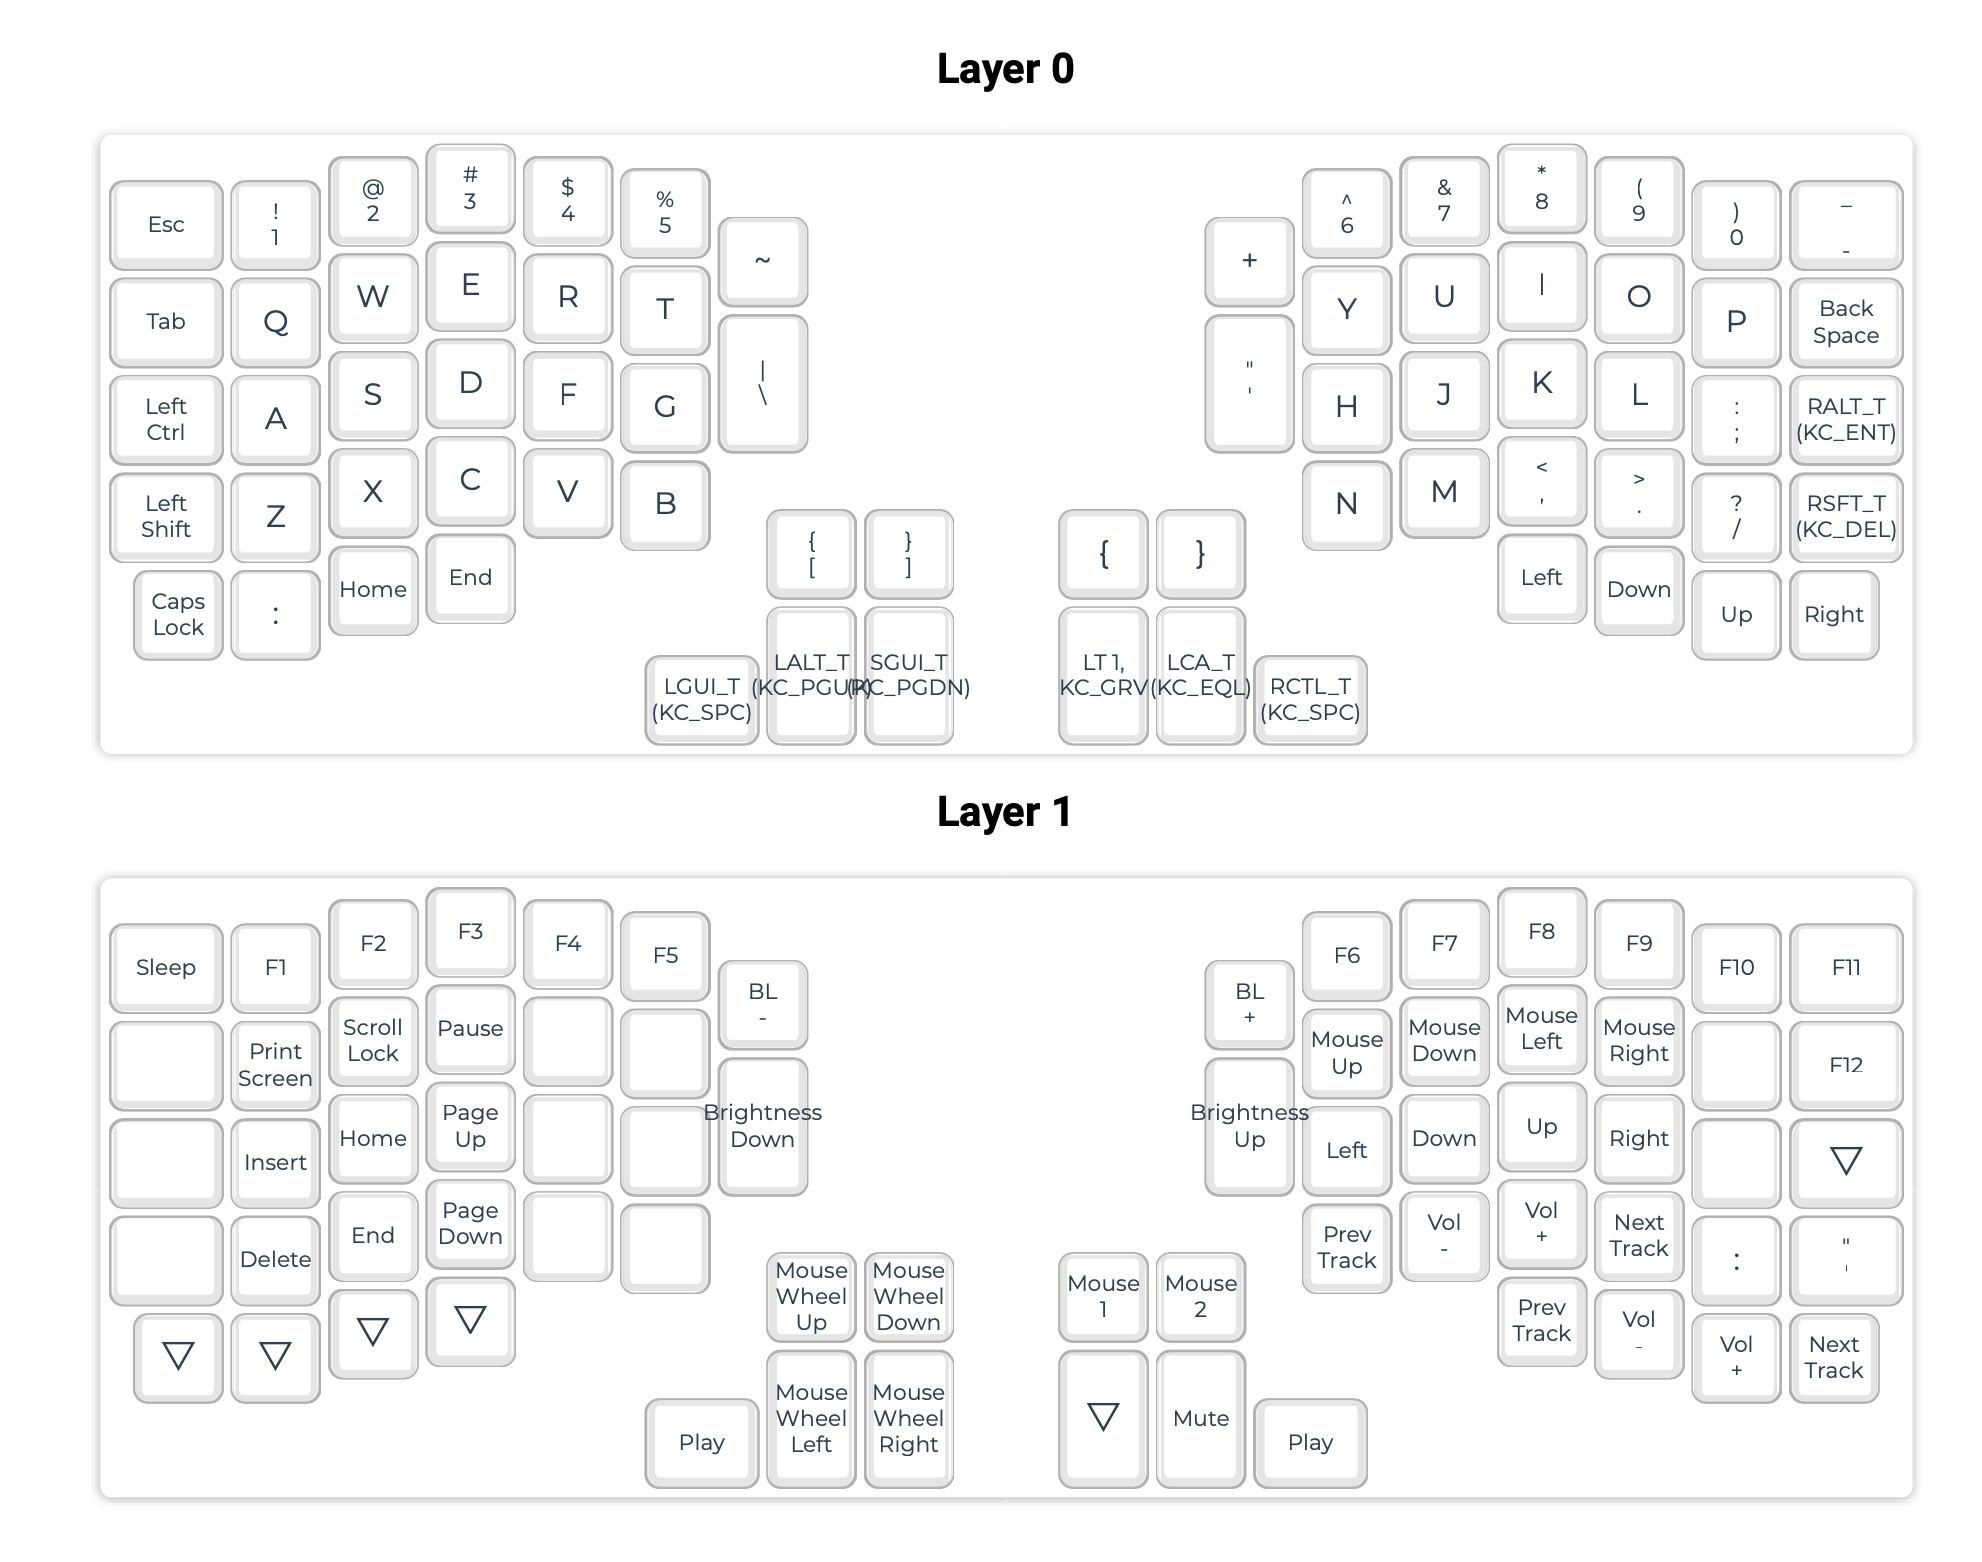
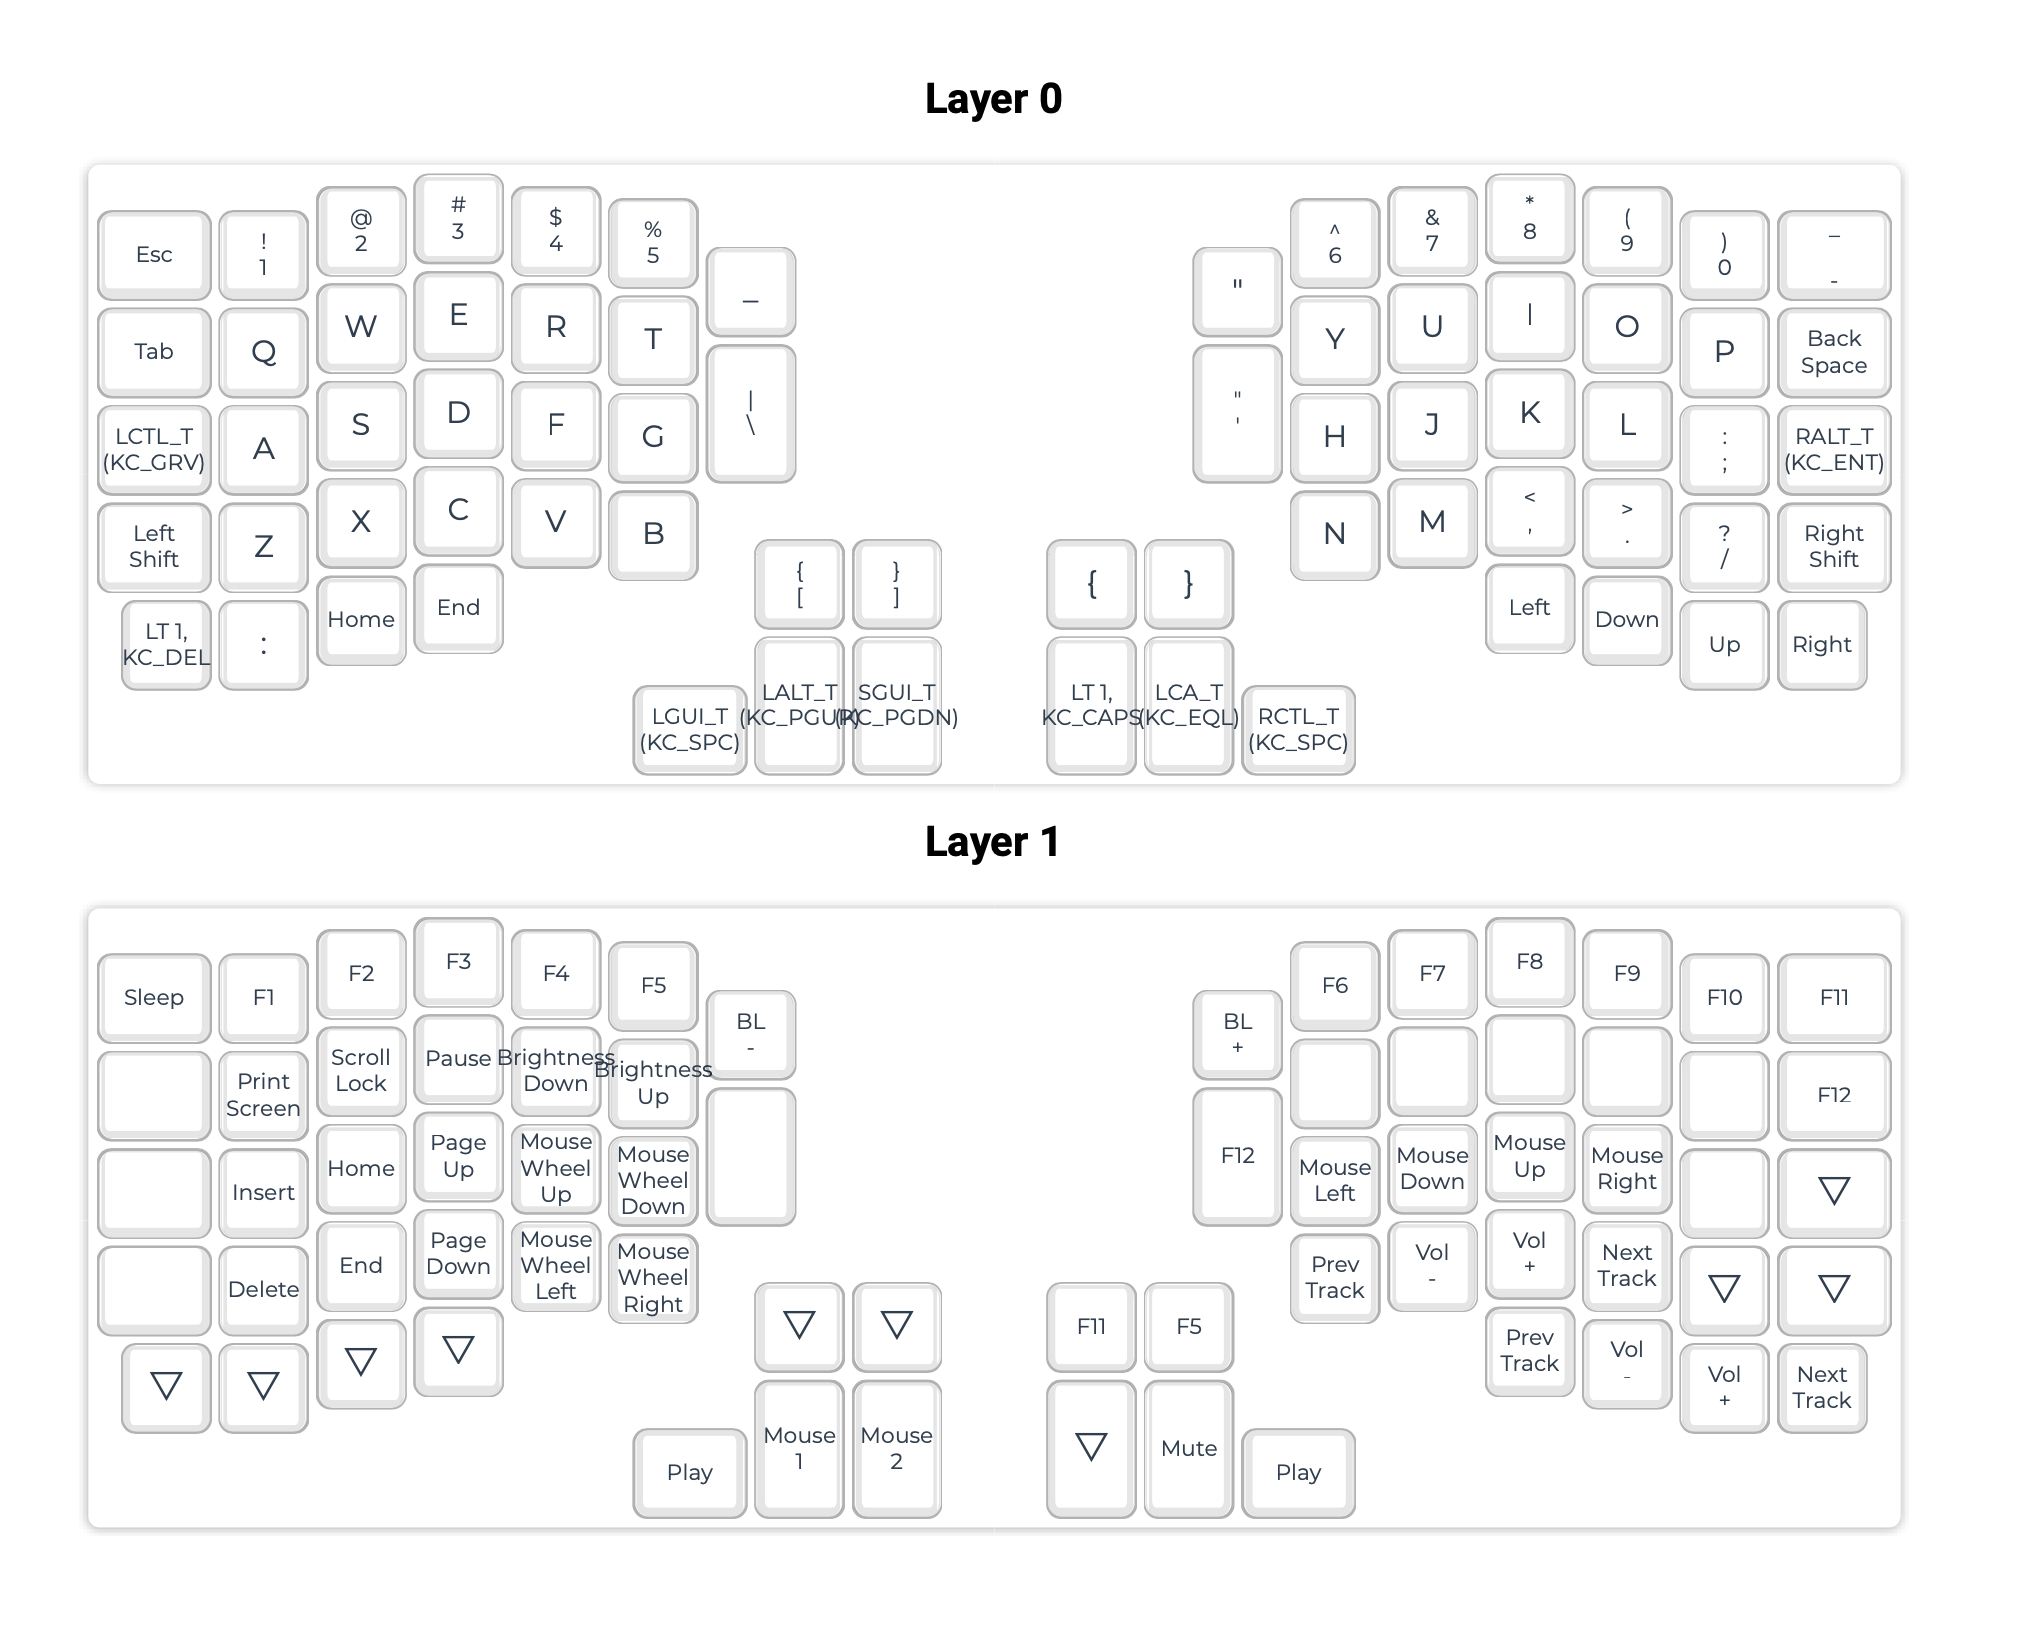
mv dufs to modules, edit readme

Changed region(s): [[0.0308, 0.5531, 0.9849, 0.9834], [0.0308, 0.0922, 0.9849, 0.5531], [0.4617, 0.0307, 0.554, 0.0922]]

diff --git a/modules/qmk/files/redoxpro/keymap.c b/modules/qmk/files/redoxpro/keymap.c
@@ -8,7 +8,7 @@
  */
 
 const uint16_t PROGMEM keymaps[][MATRIX_ROWS][MATRIX_COLS] = {
-	[0] = LAYOUT(KC_ESC, KC_1, KC_2, KC_3, KC_4, KC_5, KC_6, KC_7, KC_8, KC_9, KC_0, KC_MINS, KC_TAB, KC_Q, KC_W, KC_E, KC_R, KC_T, KC_TILD, KC_PLUS, KC_Y, KC_U, KC_I, KC_O, KC_P, KC_BSPC, KC_LCTL, KC_A, KC_S, KC_D, KC_F, KC_G, KC_BSLS, KC_QUOT, KC_H, KC_J, KC_K, KC_L, KC_SCLN, RALT_T(KC_ENT), KC_LSFT, KC_Z, KC_X, KC_C, KC_V, KC_B, KC_LBRC, KC_RBRC, KC_LCBR, KC_RCBR, KC_N, KC_M, KC_COMM, KC_DOT, KC_SLSH, RSFT_T(KC_DEL), KC_CAPS, KC_COLN, KC_HOME, KC_END, LGUI_T(KC_SPC), LALT_T(KC_PGUP), SGUI_T(KC_PGDN), LT(1,KC_GRV), LCA_T(KC_EQL), RCTL_T(KC_SPC), KC_LEFT, KC_DOWN, KC_UP, KC_RGHT),
-	[1] = LAYOUT(KC_SLEP, KC_F1, KC_F2, KC_F3, KC_F4, KC_F5, KC_F6, KC_F7, KC_F8, KC_F9, KC_F10, KC_F11, KC_NO, KC_PSCR, KC_SCRL, KC_PAUS, KC_NO, KC_NO, BL_DEC, BL_INC, KC_MS_U, KC_MS_D, KC_MS_L, KC_MS_R, KC_NO, KC_F12, KC_NO, KC_INS, KC_HOME, KC_PGUP, KC_NO, KC_NO, KC_BRID, KC_BRIU, KC_LEFT, KC_DOWN, KC_UP, KC_RGHT, KC_NO, KC_TRNS, KC_NO, KC_DEL, KC_END, KC_PGDN, KC_NO, KC_NO, KC_WH_U, KC_WH_D, KC_BTN1, KC_BTN2, KC_MRWD, KC_VOLD, KC_VOLU, KC_MFFD, KC_COLN, KC_QUOT, KC_TRNS, KC_TRNS, KC_TRNS, KC_TRNS, KC_MPLY, KC_WH_L, KC_WH_R, KC_TRNS, KC_MUTE, KC_MPLY, KC_MRWD, KC_VOLD, KC_VOLU, KC_MFFD)
+	[0] = LAYOUT(KC_ESC, KC_1, KC_2, KC_3, KC_4, KC_5, KC_6, KC_7, KC_8, KC_9, KC_0, KC_MINS, KC_TAB, KC_Q, KC_W, KC_E, KC_R, KC_T, KC_UNDS, KC_DQUO, KC_Y, KC_U, KC_I, KC_O, KC_P, KC_BSPC, LCTL_T(KC_GRV), KC_A, KC_S, KC_D, KC_F, KC_G, KC_BSLS, KC_QUOT, KC_H, KC_J, KC_K, KC_L, KC_SCLN, RALT_T(KC_ENT), KC_LSFT, KC_Z, KC_X, KC_C, KC_V, KC_B, KC_LBRC, KC_RBRC, KC_LCBR, KC_RCBR, KC_N, KC_M, KC_COMM, KC_DOT, KC_SLSH, KC_RSFT, LT(1,KC_DEL), KC_COLN, KC_HOME, KC_END, LGUI_T(KC_SPC), LALT_T(KC_PGUP), SGUI_T(KC_PGDN), LT(1,KC_CAPS), LCA_T(KC_EQL), RCTL_T(KC_SPC), KC_LEFT, KC_DOWN, KC_UP, KC_RGHT),
+	[1] = LAYOUT(KC_SLEP, KC_F1, KC_F2, KC_F3, KC_F4, KC_F5, KC_F6, KC_F7, KC_F8, KC_F9, KC_F10, KC_F11, KC_NO, KC_PSCR, KC_SCRL, KC_PAUS, KC_BRID, KC_BRIU, BL_DEC, BL_INC, KC_NO, KC_NO, KC_NO, KC_NO, KC_NO, KC_F12, KC_NO, KC_INS, KC_HOME, KC_PGUP, KC_WH_U, KC_WH_D, KC_NO, KC_F12, KC_MS_L, KC_MS_D, KC_MS_U, KC_MS_R, KC_NO, KC_TRNS, KC_NO, KC_DEL, KC_END, KC_PGDN, KC_WH_L, KC_WH_R, KC_TRNS, KC_TRNS, KC_F11, KC_F5, KC_MRWD, KC_VOLD, KC_VOLU, KC_MFFD, KC_TRNS, KC_TRNS, KC_TRNS, KC_TRNS, KC_TRNS, KC_TRNS, KC_MPLY, KC_BTN1, KC_BTN2, KC_TRNS, KC_MUTE, KC_MPLY, KC_MRWD, KC_VOLD, KC_VOLU, KC_MFFD)
 };
 

diff --git a/README.md b/README.md
@@ -2,22 +2,133 @@
 
 Dotfiles, init scripts, etc, for now, it includes macOS, and Debian (my VPS), you shouldn't use it directly, cause it contains many personal habits, but you do can get some inspiratiions from it.
 
-> It still work in process
 
-
+I use raw shell scripts to install apps, and [Comtrya](https://github.com/comtrya/comtrya) for linking dotfiles or using template to copy template dotfile to the dest location, 
+[Keepassxc](https://github.com/keepassxreboot/keepassxc) for password manager, 
+[tmux](https://github.com/tmux/tmux) for window manager,
+[Alacritty](https://github.com/alacritty/alacritty) for terminal,
+[helix](https://github.com/helix-editor/helix) for modal editor.
+[alfred](https://www.alfredapp.com/) for translation, calculate, launch center, workflow.
 ## Structure Stree
 
- TODO
+
+### Home Structure
+
+```bash
+├── blog
+|── dotfiles
+│   ├── private
+├── inbox
+├── repos
+├── syncing
+
+```
+
+> `dotfiles` for all env related stuffs.
+> `inbox` for all temp things, like temp run repos from Github.
+> `repos` for all personal repos.
+> `syncing` for all other settings that does not have a decent dotfiles, but still need to backup. So if I want to reflush my sytem, I need to backup this folder.
 
 
-## Common Commands
+### Dotfile Structure:
+
+```bash
+├── modules
+│   └── zsh
+│       ├── change_zsh_as_default_shell_debian.sh
+│       ├── files
+│       │   ├── alias_debian.zsh
+│       │   ├── general_config.zsh
+│       │   ├── includes
+│       │   │   ├── 1_env.zsh
+│       │   │   ├── 2_path.zsh
+│       │   │   ├── 3_function.zsh
+│       │   │   ├── 4_aliases.zsh
+│       │   │   ├── 5_fzf_keybinding.zsh
+│       │   │   ├── 6_fzf_completion.zsh
+│       │   │   ├── 7_git_prompt.zsh
+│       │   │   └── 8_ssh_zsh_completion.zsh
+│       │   ├── path_macos.zsh
+│       │   ├── zshenv.zsh
+│       │   └── zshrc.zsh
+│       ├── install_zsh_debian.sh
+│       └── zsh.yml
+├── private
+│   ├── keepassxc
+│   │   ├── dev.kdbx
+│   │   ├── high.kdbx
+│   │   └── main.kdbx
+│   ├── ssh
+│   │   ├── files
+│   │   │   ├── config
+│   │   │   └── id_ed25519.pub
+│   │   └── ssh.yml
+└── scripts
+    ├── 0_install_pre_required_modules_for_debian.sh
+    ├── 1_install_modules_for_debian.sh
+    ├── 2_import_dotfiles_debian.sh
+    ├── 2_import_dotfiles_macos.sh
+    ├── env.sh
+    ├── import_ssh_key.sh
+    ├── import_temp_env.sh
+    ├── link_all.sh
+    └── unlink.sh
+```
+
+> `modules` for all apps, every app should contains an install script, and optional `files` folder, and `app.yml` for [Comtrya](https://github.com/comtrya/comtrya).
+>
+> `private` for private data, I sync it to a github private repo, inlucde keepassxc encrypted file, and other personal file.
+> Though it's a individual repo, I still clone it in `dotfiles` folder, and ignore it in `.gitignore`, cause it's convenient to apply changes.
+>
+> `scripts` for common shell script, so ideally, I can use a few script to bootstrap my new environment. 
+
+### Common Commands
 
 1. `make link`: link or copy all dotfiles to the right place
 2. `make unlink`: unlink all things.
-3. `make backup`: backup qBittorrent.conf to dotfiles source, cause you may change the qbittorrent settings from web ui 
+3. `make backup`: backup qBittorrent.conf to dotfiles source, cause you may change the qbittorrent settings from web ui, and qBittorrent run with podman, the qBittorrent.conf file permission does not allow to link. 
+4. `ca`: short for `comtrya apply`,but a lot convinience, for example: `ca` for apply current module's dotfiles. `ca all`, apply all. `ca module_name`, apply module's dotfiles whatever your current work direction. 
 
-## MacOS
 
+
+### Keepassxc
+
+```zsh
+# high level password
+high.kdbx
+# most password
+main.kdbx
+# dev related password, like api token, personal token.
+dev.kdbx 
+```
+
+
+### Alfred 
+
+Alfred config is so messed, so I make the alfred syncing folder to `~/syncing/alfred`, then mamual to set it up.
+
+<details>
+<summary>Settings</summary>
+
+Hot Key: <cmd><space>
+Disable system Hot Key: Spotlight Hot Key, in Keyboard shortcut settings.
+
+</details>
+
+
+### QMK
+
+See [qmk readme](./modules/qmk/readme.md)
+
+#### Workflows
+
+- [YoudaoTranslator](https://github.com/wensonsmith/YoudaoTranslator) - [Release](https://github.com/wensonsmith/YoudaoTranslator/releases)
+
+
+## MacOS Init
+
+<details>
+<summary>Details</summary>
 
 ### 0. Resort pre-installed Apps
 
@@ -28,30 +139,17 @@ Move Terminal, Activity Monitor, Quick Time Player to the top. Move anything tha
 Settings -> Keyboard -> Input Sources
 
 
-### Alfred 
-
-Alfred config is so mess, so I make the alfred syncing folder to `~/syncing/alfred`, then mamual to set it up.
-
-#### Workflows
-
-- [YoudaoTranslator](https://github.com/wensonsmith/YoudaoTranslator) - [Release](https://github.com/wensonsmith/YoudaoTranslator/releases)
-
-## Terminal
+</details>
 
 
-## Apps
 
-
-## Keepassxc
-
-```bash
-high.kdbx
-main.kdbx
-server.kdbx
-inbox.kdbx  
-````
 
 ## Deiban
+
+
+<details>
+
+<summary>Details</summary>
 
 ssh to the machine(force use password, consider it's a new machine):
 
@@ -116,14 +214,10 @@ make link
 source ~/.zshrc
 ```
 
+</details>
 
 
-## Setup
 
-
-### QMK
-
-See [qmk readme](./modules/qmk/readme.md)
 
 ## Resource
 
@@ -131,15 +225,5 @@ See [qmk readme](./modules/qmk/readme.md)
 - [Osx-init](https://github.com/why-jay/osx-init)
 - [dev-setup](https://github.com/donnemartin/dev-setup)
 - [dotsfile](https://github.com/mathiasbynens/dotfiles/tree/master)
-- [vim tips](https://docs.oracle.com/cd/E19253-01/806-7612/editorvi-43/index.html)
-- [vim online course](https://www.vim.so)
-- [vim advance](https://thevaluable.dev/vim-advanced/)
-- [vim after 15 years](https://statico.github.io/vim3.html)
-- [vim plug](https://github.com/junegunn/vim-plug)
-- [vim-visual-multi](https://github.com/mg979/vim-visual-multi)
-
-## GPG
-
-
 - [Debian Create GPG key](https://keyring.debian.org/creating-key.html)
 - [Debian GPG Subkeys](https://wiki.debian.org/Subkeys?action=show&redirect=subkeys)

diff --git a/modules/zellij/README.md b/modules/zellij/README.md
@@ -1,0 +1,4 @@
+# Zellij
+
+
+Switch to tmux, since zellij bind too much keys, and I don't like the UI, plus many other programar has a integration with tmux, like helix, I can use helix with tmux for ssh remote paste.
